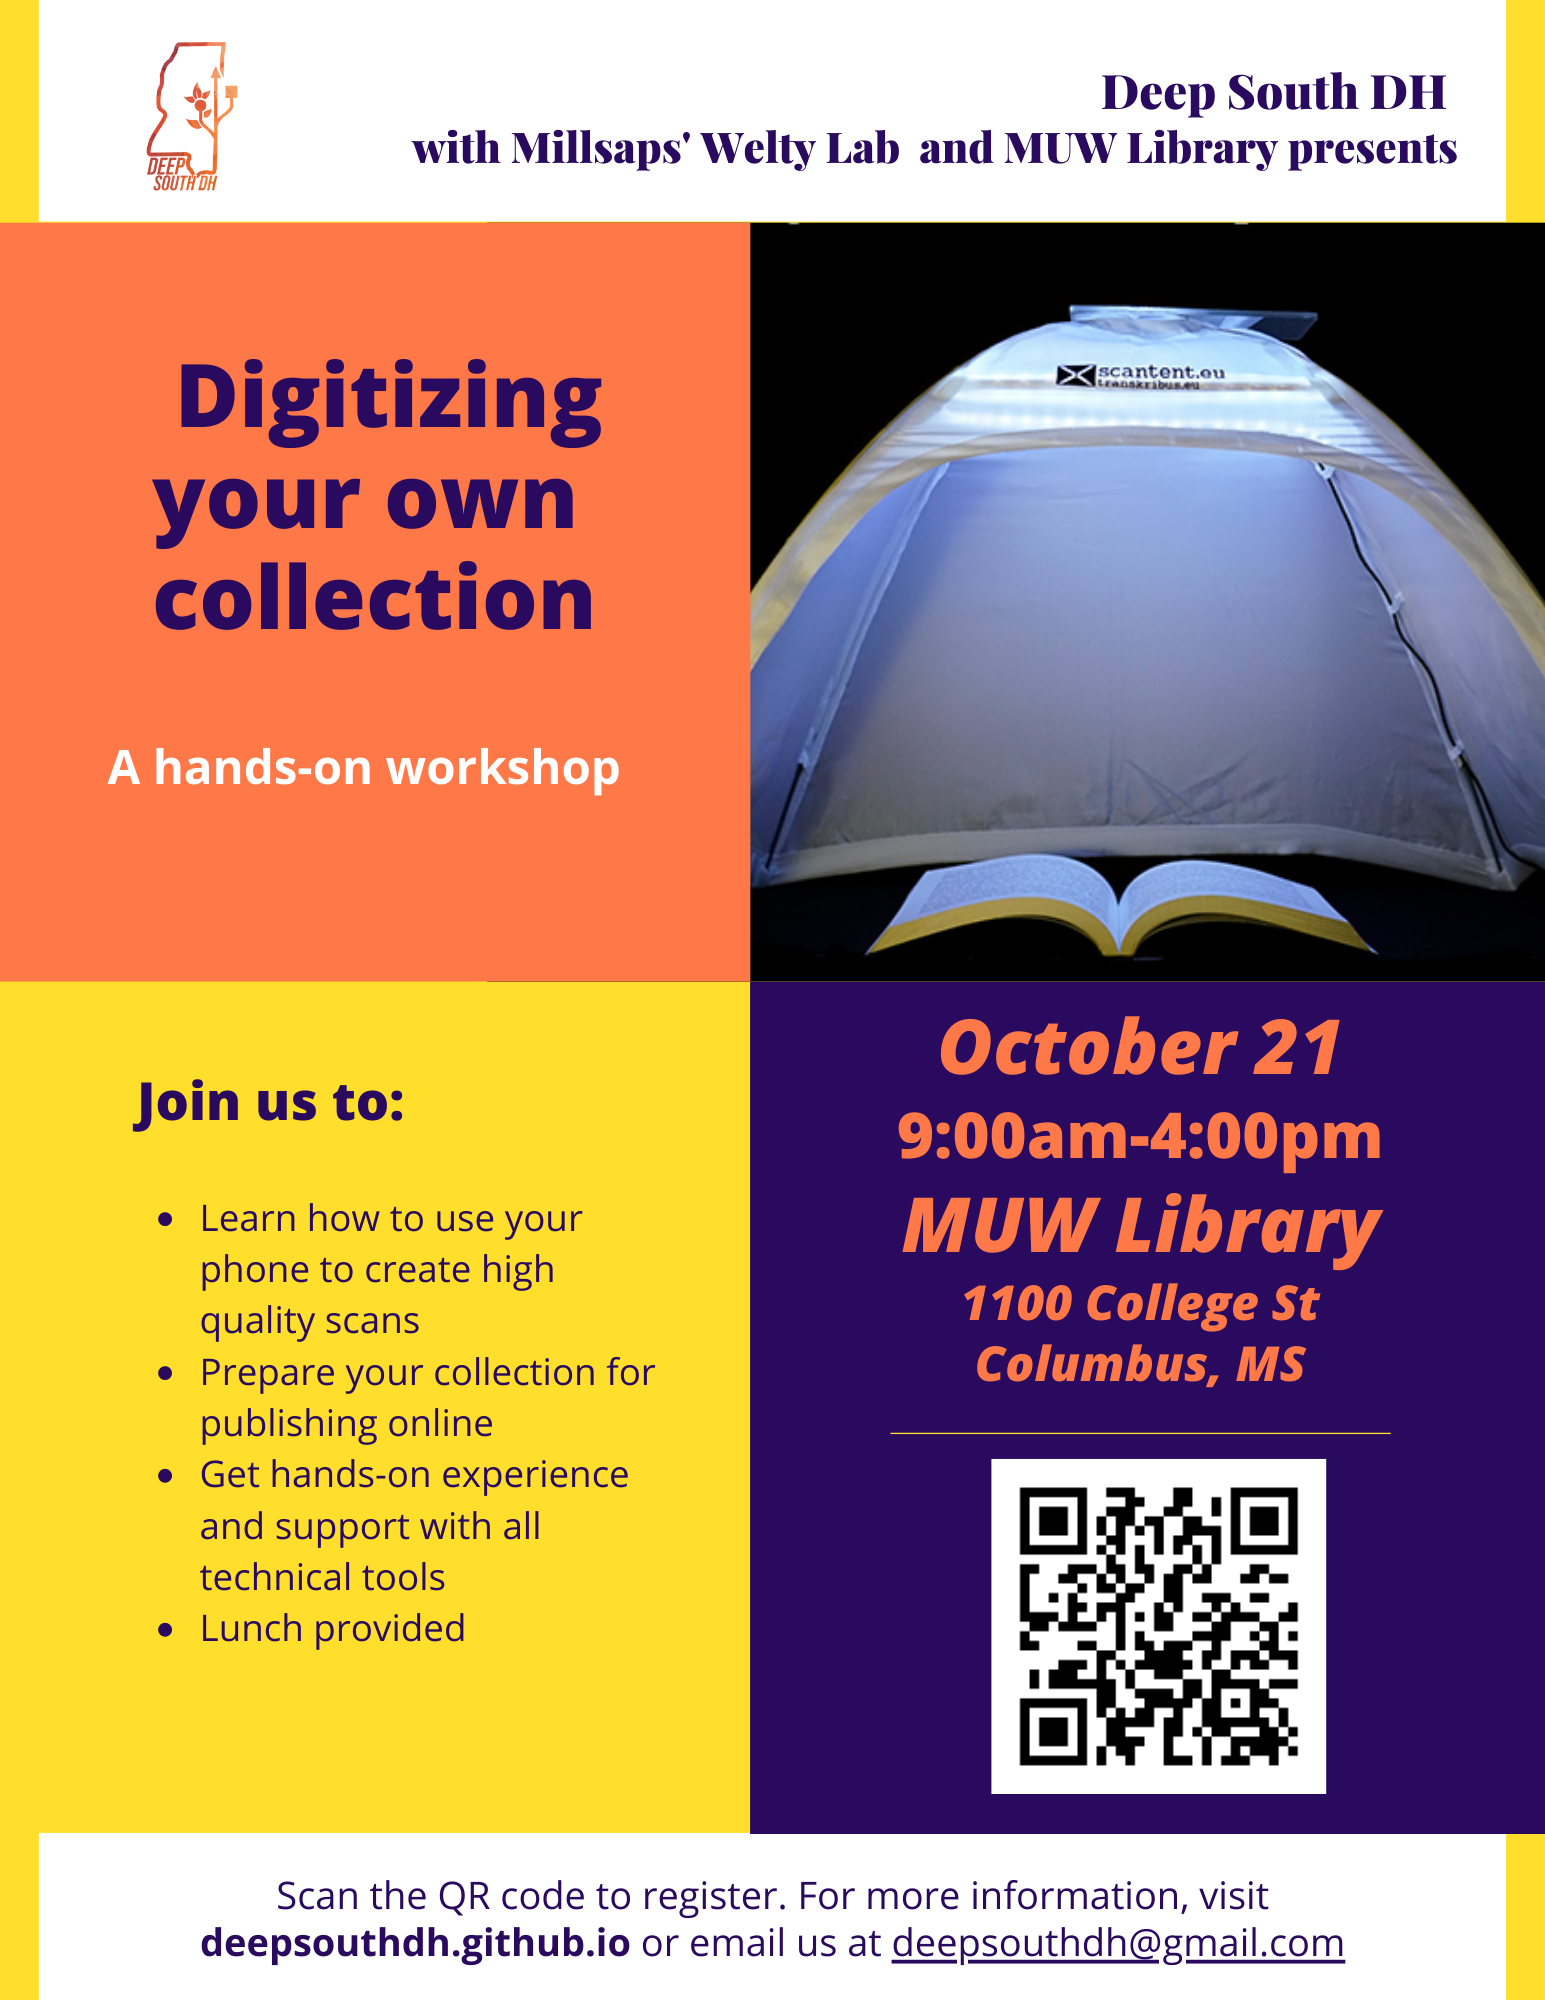
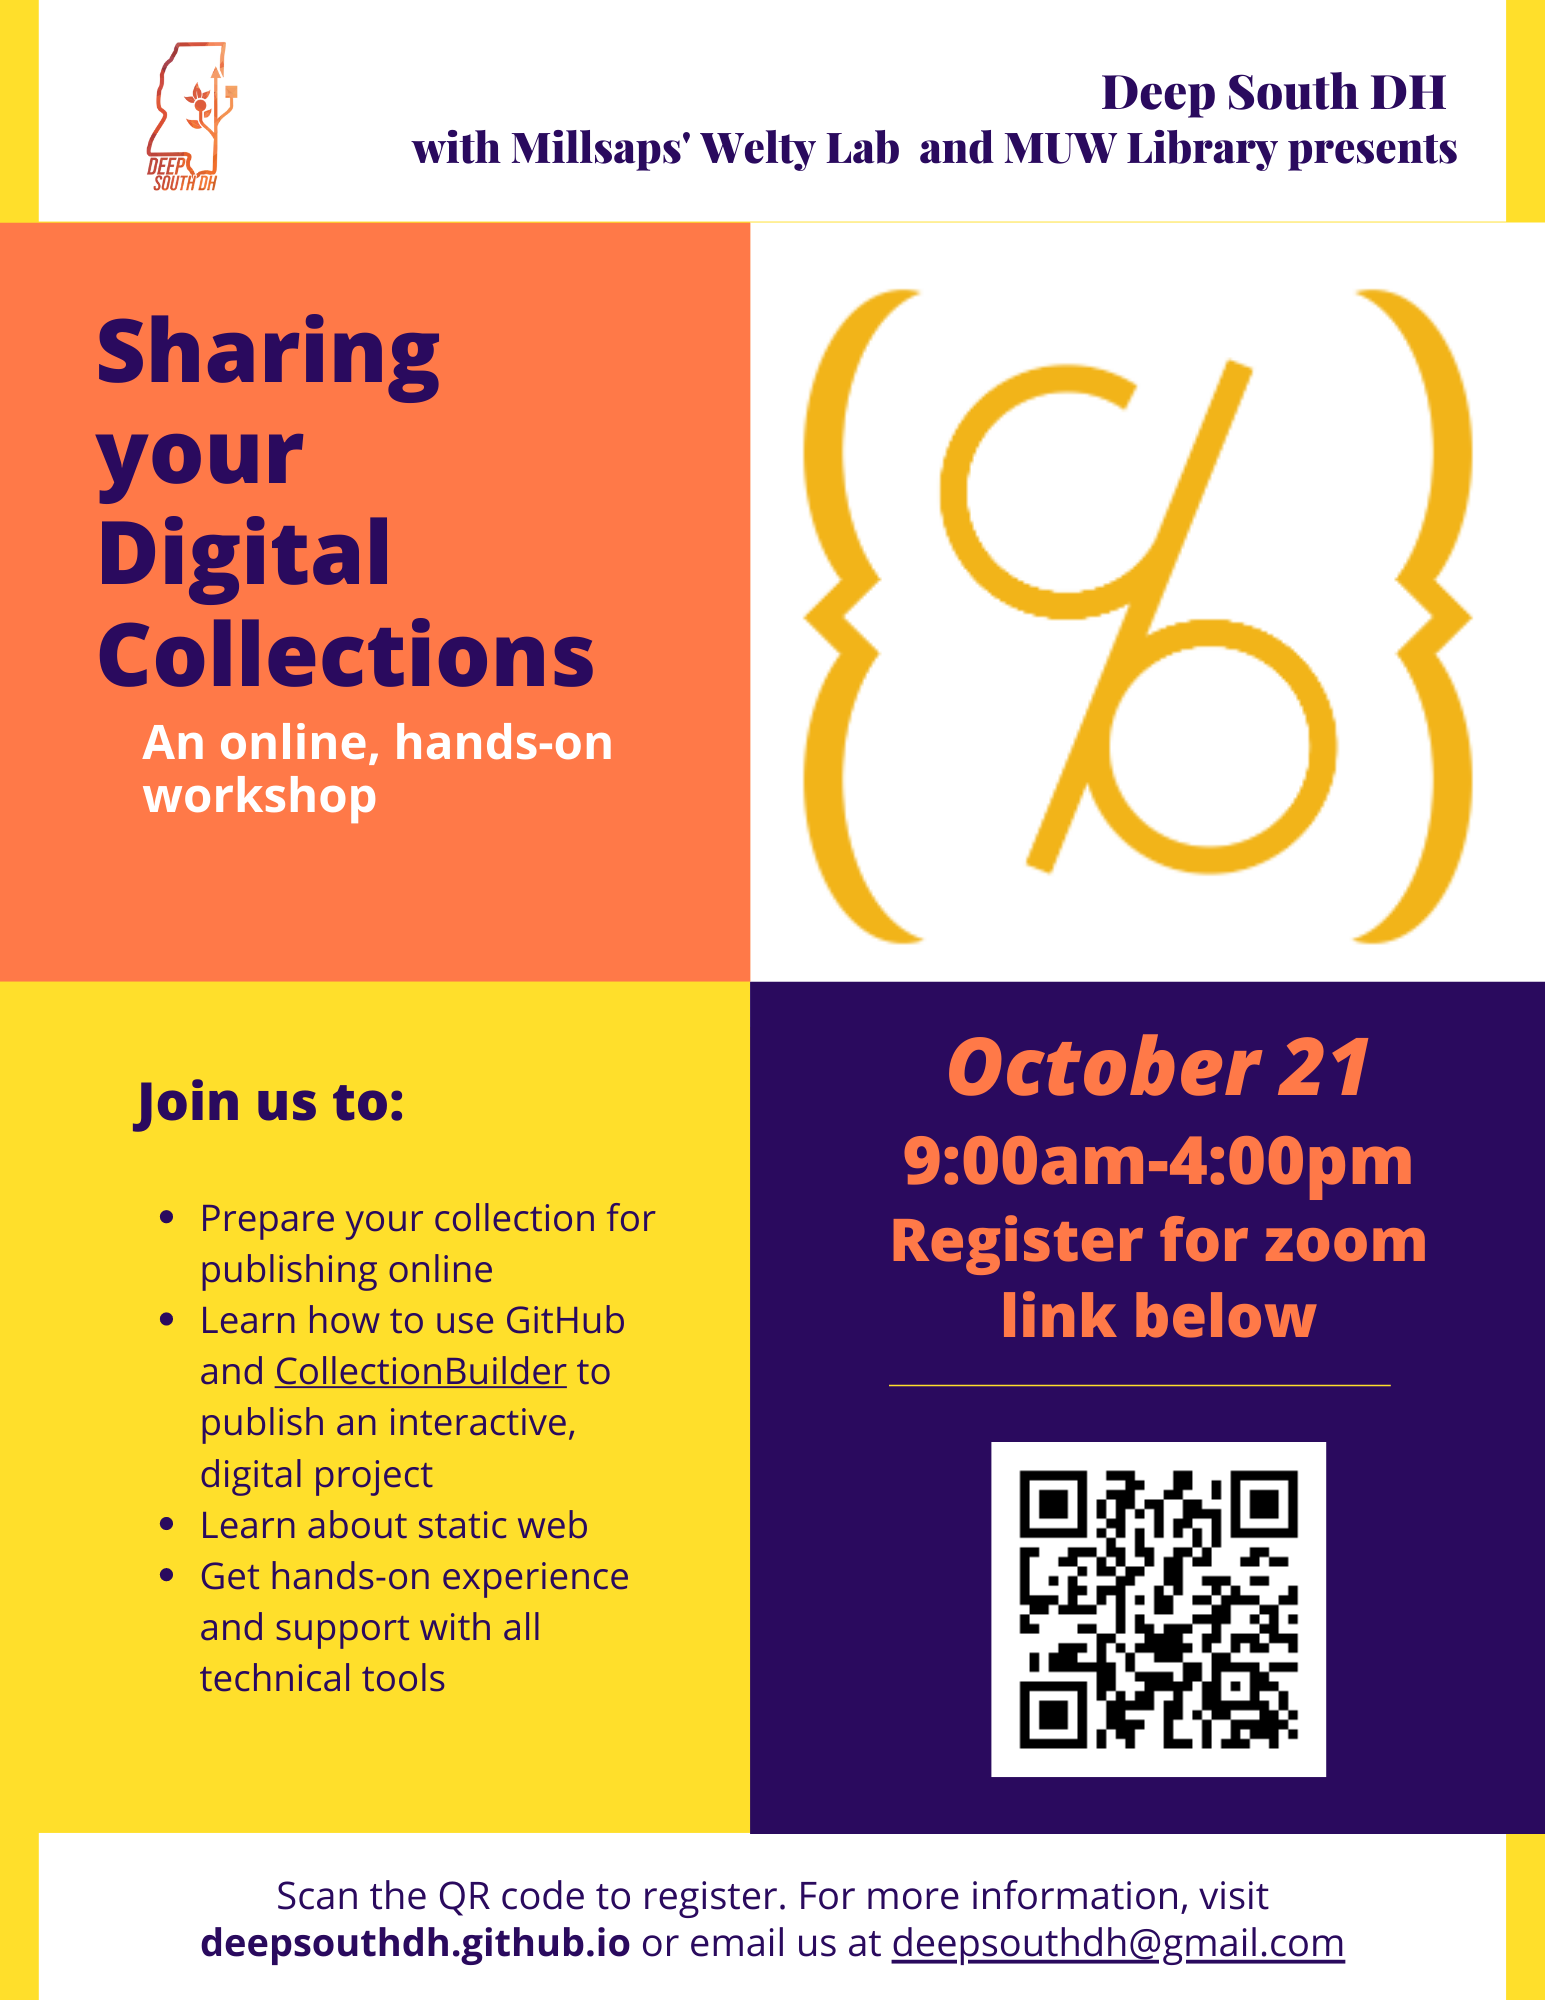
edited image and event info

Changed region(s): [[0.466, 0.093, 1.0, 0.899], [0.0621, 0.155, 0.4039, 0.403], [0.1243, 0.589, 0.4039, 0.868]]

diff --git a/events.md b/events.md
@@ -11,12 +11,11 @@ alt: 'black and white image of men on a horse and buggy outside of the burned do
 ### October 21, 2022, 9:00 am - 5:00 pm 
 <img src="https://github.com/DeepSouthDH/deepsouthdh.github.io/blob/main/assets/images/DSDH2-flier.png?raw=true" alt="flyer with information about the workshop" width="350" height="">
 
-**"Digitizing Your Own Collection"**
+**"Sharing your Digital Collections"**
 
-Join us for a hands-on workshop to learn about accessible ways to scan, upload, and share your own collecitons online. We will be joined by University of Idaho librarians from the <a href="https://collectionbuilder.github.io/about.html"> Collection Builder team</a>. 
+Join us for an online workshop to learn about accessible ways to upload and share your own projects online. We will be joined by University of Idaho librarians from the <a href="https://collectionbuilder.github.io/about.html"> CollectionBuilder team</a>, who will lead participants through getting started and setting up CollectionBuilder to host an interactive, digital project for free. Open office hours with DeepSouthDH and CollectionBuilder team members will be hosted in the weeks following the workshop. 
 
 To register for this event and for more details on the schedule, location, etc., visit the <a href="https://libreserves.muw.edu/event/9584859">registration link</a>.
-
 
 ### March 4, 2022, 2:00 pm - 4:00
 <p><img src="https://github.com/DeepSouthDH/deepsouthdh.github.io/blob/main/assets/images/DSDHpanel_22.png?raw=true" alt="flyer with images of panelists" width="350" height="" ></p>
